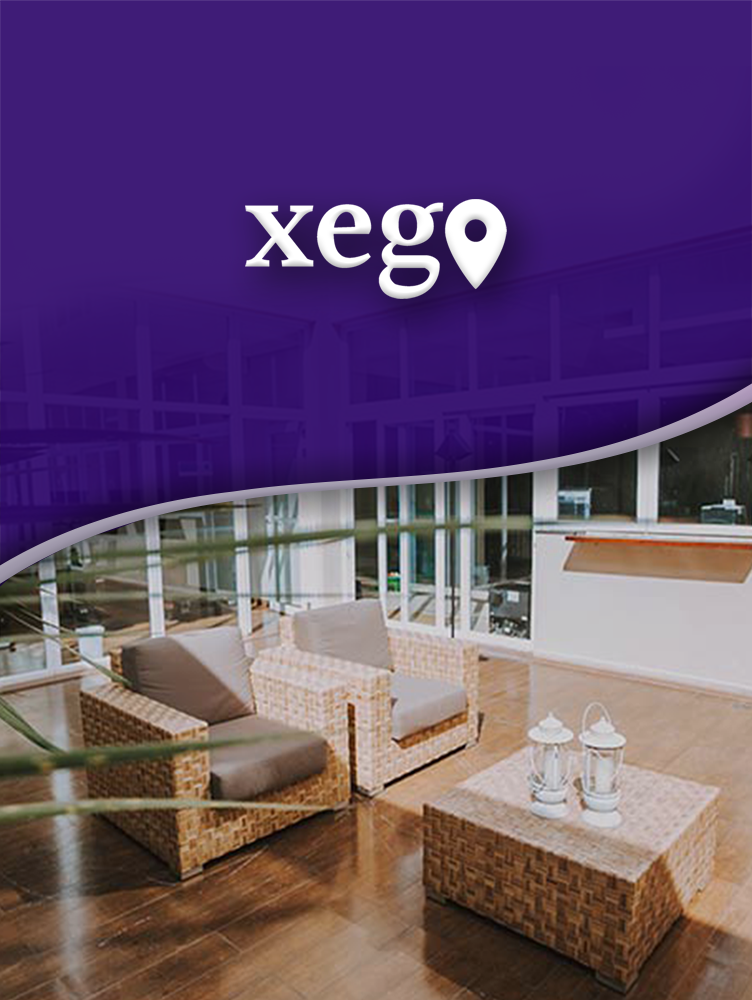
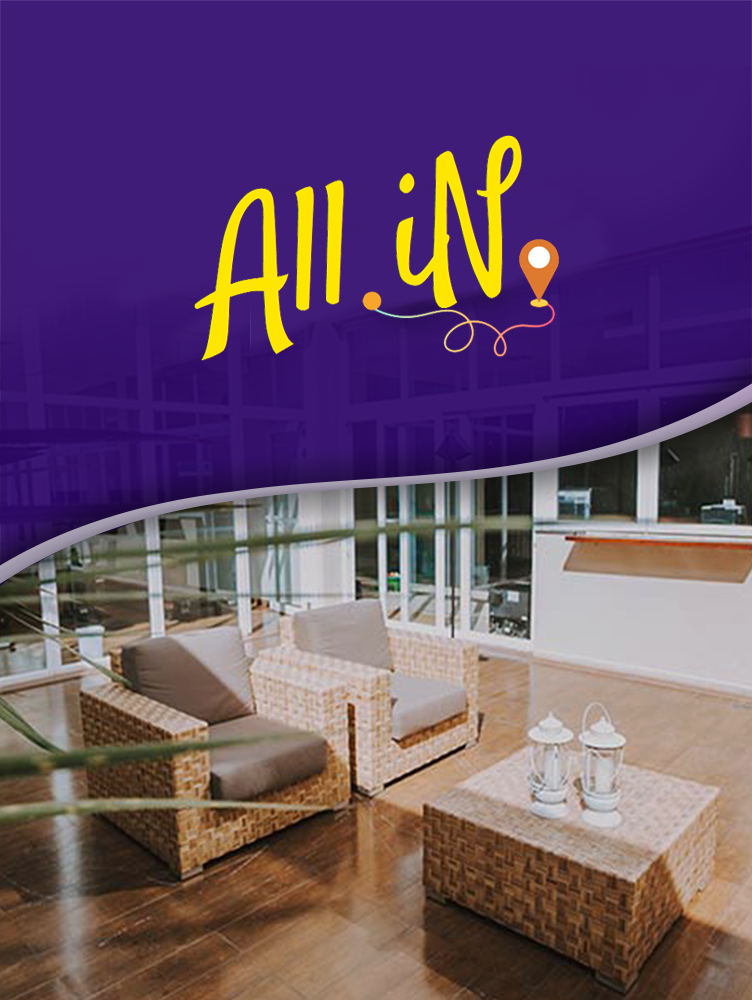
mudancas All IN

Changed region(s): [[0.2447, 0.124, 0.7646, 0.372]]

diff --git a/src/app/pages/menu/menu.component.html b/src/app/pages/menu/menu.component.html
@@ -1,5 +1,5 @@
 <div class="po-wrapper">
-    <po-toolbar [p-profile]="profile" [p-notification-actions]="notificationActions" [p-notification-number]="getNotificationNumber()" p-title="XEGO"></po-toolbar>
+    <po-toolbar [p-profile]="profile" [p-notification-actions]="notificationActions" [p-notification-number]="getNotificationNumber()" p-title="All In"></po-toolbar>
   
     <po-menu [p-menus]="menus" p-collapsed="false" p-logo="assets/logo-xego.png"></po-menu>
 

diff --git a/src/index.html b/src/index.html
@@ -2,7 +2,7 @@
 <html lang="en">
 <head>
   <meta charset="utf-8">
-  <title>XegoProject</title>
+  <title>All In</title>
   <base href="/">
   <meta name="viewport" content="width=device-width, initial-scale=1">
   <link rel="icon" type="image/x-icon" href="favicon.ico">
